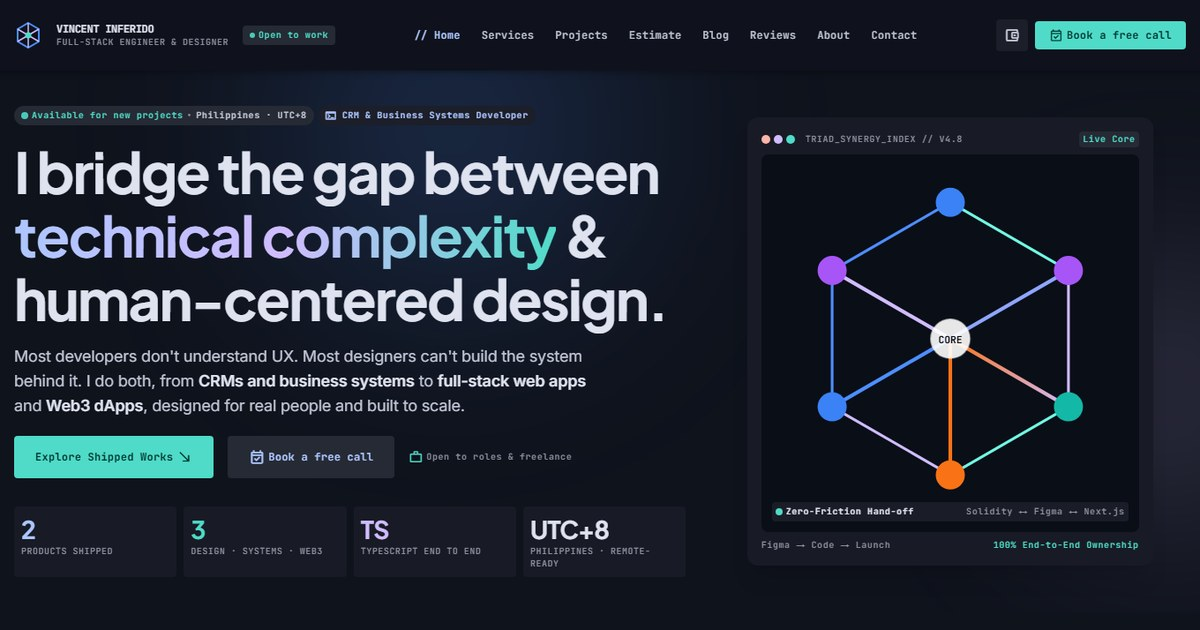
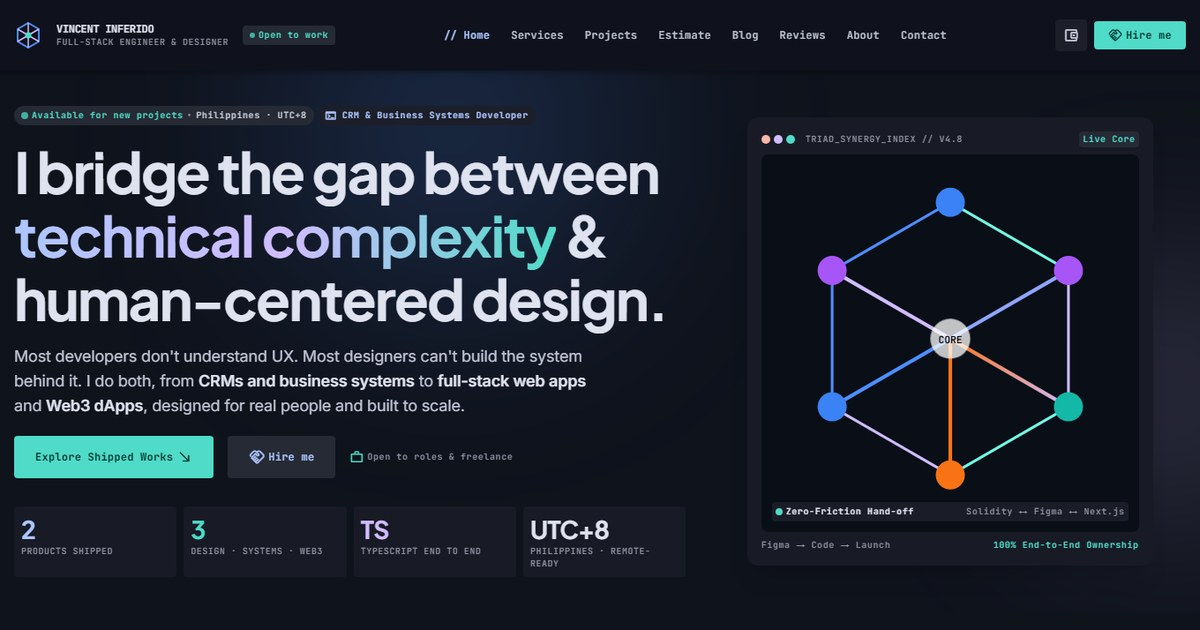
Refresh share image with the Hire me button

diff --git a/docs/index.html b/docs/index.html
@@ -14,14 +14,14 @@
 <meta property="og:title" content="Vincent Inferido — Full-Stack Engineer &amp; Designer"/>
 <meta property="og:description" content="I design and build CRMs, booking systems, web apps and Web3 products for growing businesses, from Figma to launch."/>
 <meta property="og:type" content="website"/>
-<meta property="og:image" content="https://vincentinferido-a11y.github.io/og-image.jpg?v=1"/>
-<meta property="og:image:secure_url" content="https://vincentinferido-a11y.github.io/og-image.jpg?v=1"/>
+<meta property="og:image" content="https://vincentinferido-a11y.github.io/og-image.jpg?v=2"/>
+<meta property="og:image:secure_url" content="https://vincentinferido-a11y.github.io/og-image.jpg?v=2"/>
 <meta property="og:image:type" content="image/jpeg"/>
 <meta property="og:image:width" content="1200"/>
 <meta property="og:image:height" content="630"/>
 <meta property="og:image:alt" content="Vincent Inferido portfolio: I bridge the gap between technical complexity and human-centered design."/>
 <meta name="twitter:card" content="summary_large_image"/>
-<meta name="twitter:image" content="https://vincentinferido-a11y.github.io/og-image.jpg?v=1"/>
+<meta name="twitter:image" content="https://vincentinferido-a11y.github.io/og-image.jpg?v=2"/>
 <link rel="alternate" type="application/rss+xml" title="Vincent Inferido — Blog" href="https://vincentinferido-a11y.github.io/blog/feed.xml"/>
 <script type="application/ld+json">{"@context":"https://schema.org","@graph":[{"@type":"Person","@id":"https://vincentinferido-a11y.github.io/#person","name":"Vincent Inferido","jobTitle":"Full-Stack Engineer & Designer","url":"https://vincentinferido-a11y.github.io/","image":"https://vincentinferido-a11y.github.io/vincent-inferido.jpg","email":"mailto:vincent.inferido@gmail.com","sameAs":["https://github.com/vincentinferido-a11y","https://www.linkedin.com/in/vincentci/","https://x.com/web3boyaxdev"],"knowsAbout":["CRM development","Booking systems","Web application development","UX/UI design","Next.js","TypeScript","Supabase","Firebase","Web3","Smart contracts"]},{"@type":"ProfessionalService","@id":"https://vincentinferido-a11y.github.io/#service","name":"Vincent Inferido — Full-Stack Engineering & Design","url":"https://vincentinferido-a11y.github.io/","image":"https://vincentinferido-a11y.github.io/og-image.jpg","founder":{"@id":"https://vincentinferido-a11y.github.io/#person"},"areaServed":"Worldwide","serviceType":["Custom CRM development","Booking system development","Web app development","UX/UI design","Web3 dApp development"]},{"@type":"WebSite","@id":"https://vincentinferido-a11y.github.io/#website","url":"https://vincentinferido-a11y.github.io/","name":"Vincent Inferido","publisher":{"@id":"https://vincentinferido-a11y.github.io/#person"},"inLanguage":"en"}]}</script>
 <meta name="twitter:site" content="@web3boyaxdev"/>
